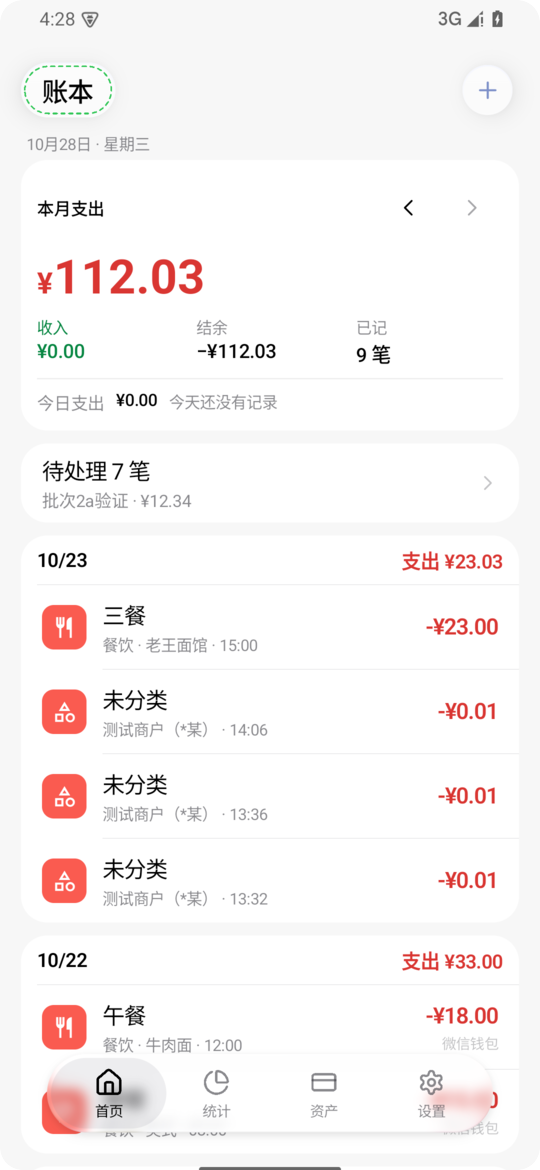
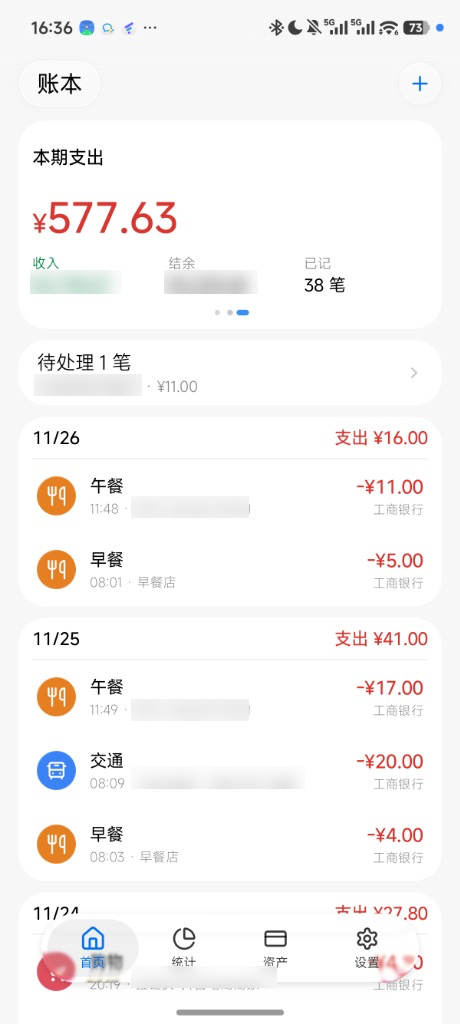
docs(readme): 重写 README 并更新脱敏版 1.11.4 界面截图

diff --git a/README.md b/README.md
@@ -1,48 +1,138 @@
+<div align="center">
+
+<img src="logo/wheat.png" width="96" alt="麦米 My Money" />
+
 # 麦米 My Money
 
-> 当前已发布版本 **1.11.4/167**（2026-11-26 用户验收通过，已发 [GitHub Release `v1.11.4`](https://github.com/Caozl9021/MyMoney/releases/tag/v1.11.4)）：包含全应用交互动效升级、3D 预测性返回全向退场、统计页周↔月柱环 1 对 1 变形 / 圆环双模式与汇总滚变、以及首页汇总卡自适应三点分页引导。说明见 [UI 组件说明](docs/UI_COMPONENTS.md) 与 [更新日志](CHANGELOG.md)，验收见 [验收记录](docs/ACCEPTANCE.md)。
->
-> 更早版本 **1.11.3/166**（2026-11-24 已发 [GitHub Release `v1.11.3`](https://github.com/Caozl9021/MyMoney/releases/tag/v1.11.3)）、**1.11.2/165**（2026-11-24 已发 [GitHub Release `v1.11.2`](https://github.com/Caozl9021/MyMoney/releases/tag/v1.11.2)）、**1.11.1/164**（2026-11-20 已发 [GitHub Release `v1.11.1`](https://github.com/Caozl9021/MyMoney/releases/tag/v1.11.1)）、**1.10.3/162**（2026-11-14 已发 [GitHub Release `v1.10.3`](https://github.com/Caozl9021/MyMoney/releases/tag/v1.10.3)）。
+**半自动识别微信与支付宝交易 · 纯本地存储与离线处理**
 
-## 版本说明（1.10.3/162 及近期基线）
+[![Release](https://img.shields.io/github/v/release/Caozl9021/MyMoney?label=Release)](https://github.com/Caozl9021/MyMoney/releases)
+![Android](https://img.shields.io/badge/Android-8.0%2B%20(API%2026%2B)-3DDC84)
+[![License: GPL v3](https://img.shields.io/badge/License-GPLv3-blue.svg)](LICENSE)
 
-当前版本 **1.10.3/162**（2026-11-14 验收并发布，Room 13 / JSON 12），含 11-11 首页/账单详情/统计/明细页样式重构、11-12 资产 Tab 布局精简，以及 11-11 随 `1.10.2/161` 发布的资产添加向导与报销能力（其中报销未另出单独验收原话）。云备份管理台、扫码连接及邀请管理、历史备份删除与按需下载恢复已于 1.10.0/158（2026-11-07）验收通过。
+[下载安装包](https://github.com/Caozl9021/MyMoney/releases) · [更新日志](CHANGELOG.md) · [安全与隐私边界](SECURITY.md) · [参与贡献](CONTRIBUTING.md)
 
-设置中的云备份可连接家庭服务、创建本机快照、浏览历史并按需恢复。恢复支持进度、取消与缓存复用。管理台提供设备／备份管理及连接二维码。
+</div>
 
-淘宝闪购订单数据采样已整理交接，实时验证与产品接入继续后续执行。[验收记录](docs/ACCEPTANCE.md) · [当前进度](docs/PROGRESS.md) · [淘宝实时交接](docs/SHANGOU_LIVE_VALIDATION_HANDOFF.md)
+---
 
-## 两种基础识别方式
+> 最新正式版：**`1.11.4 / 167`**（[Release `v1.11.4`](https://github.com/Caozl9021/MyMoney/releases/tag/v1.11.4)）  
+> 从旧版升级请使用**同签名 Release APK** 直接覆盖安装，本机账单与设置会自动保留。
 
-| 方式 | 怎么用 |
-| --- | --- |
-| 通知监听 | 收到支持的微信/支付宝交易通知后识别，不依赖无障碍 |
-| 页面识别 | 开启后打开交易详情即可自动识别；付款成功页由通知监听负责，不从页面生成草稿 |
-| 页面文字补全 | 可选OCR，默认关闭并需同意；为可靠的详情节点草稿补商户、支付方式或商品等空字段 |
+---
 
-两种方式独立开关/授权/状态，位于设置→自动记账→识别方式与增强。总开关统一暂停，关闭自动弹卡时结果进入待确认。没有合格通知时，付款成功页允许不弹；页面识别并非手动按钮，也不承诺所有付款都有通知。
+## 界面预览
 
-Root读通知是通知的内部备用实现，listener优先；LSPosed交易凭证为高级可选增强。两者不恢复旧Root页面轮询，不改变仅微信/支付宝的应用范围。
+<p align="center">
+  <img src="assets/screenshots/hero.png" width="100%" alt="麦米 My Money 界面概览：确认卡、账本首页、周/月统计、资产管理" />
+</p>
 
-识别一律先形成待确认，只有你点“记一笔”才入账。同笔两路共用去重和确认卡，已记账/忽略及人工字段受保护。再次打开已记账/忽略/曾呈现的同笔详情仍可弹卡；只有账本命中疑似对应账单时，在金额下方仅显示“（可能重复）”，保存或忽略由你决定；同一识别重复保存仍幂等。
+<details>
+<summary>查看单页高清截图</summary>
 
-## 账本和迁移
+| 确认卡 | 账本首页 | 统计（周） | 统计（月） | 资产 |
+| :---: | :---: | :---: | :---: | :---: |
+| <img src="assets/screenshots/02-confirm.png" width="170" alt="确认卡" /> | <img src="assets/screenshots/01-home.png" width="170" alt="账本首页" /> | <img src="assets/screenshots/03-stats-week.png" width="170" alt="周统计" /> | <img src="assets/screenshots/04-stats-month.png" width="170" alt="月统计" /> | <img src="assets/screenshots/05-assets.png" width="170" alt="资产" /> |
 
-- 首页按账期汇总，分类/账户统计可下钻到统一账单详情；资产与转账按原子事务联动。
-- 删除先确认，记录历史保存只读删除日志，不提供恢复或5秒撤销。
-- 钱迹XLSX导入、设置内iCost批量导出、本地JSON备份和个人云备份。当前主UI不再提供家庭共享规则/逐条账本同步/互导；单笔iCost分享已移除。
-- 首页加号直接手动记账。主动“从截图补记”已取消，源码入口/Activity仍有残留待清退；PAGE内部OCR辅助保留，公共确认卡不提供用截图补充。
-- Room13，JSON12兼容1–11；原始截图、设备身份和凭证不进备份。历史rule-sync.db与ledger-sync.db保留，但不等于当前仍有同步主入口。
+</details>
 
-## 规则与OCR边界
+---
 
-规则包源码当前1.3.0、15条规则、生成标记maimi-rules-5；App和规则包独立版本/发布。官方包升级保留个人规则与状态。规则只处理宿主已经准入的输入，不能绕过详情场景或通知门禁。见[规则说明](docs/LOCAL_RULES.md)。
+## 半自动记账
 
-固定离线OCR引擎为V6 Tiny，需API30+与64位进程；主App仍支持minSdk26。Q1字段补充已实现，Q0真实样本/ARM64预算仍有缺口，Q2缺金额时生成第一份草稿未实现。整页空节点盲截不在范围。见[OCR说明](docs/OCR_ASSISTANCE.md)。
+支付完成后本地自动提取金额、商户与支付方式并弹出确认卡，自动匹配分类、账户、餐段与备注；**只有你点「记一笔」才会入账**。
 
-## 构建
+```text
+微信 / 支付宝交易
+   ├── 通知监听（主力，不依赖无障碍）
+   ├── 页面识别（打开交易详情页自动提取）
+   └── 可选增强（本地 V6 OCR 补空字段 / Root 读通知 / LSPosed 交易凭证）
+          │
+          ▼
+本地规则匹配 + 智能填充 + 重复检查
+          │
+          ▼
+弹出确认卡（关闭自动弹卡时暂存「待确认」）──► 点「记一笔」入账并联动资产余额
+```
 
-JDK17、Android SDK35，Gradle wrapper8.14、AGP8.7、Kotlin2.0.21。
+可在 **设置 → 自动记账** 中独立开关识别能力：
+
+| 方式 | 触发时机与说明 | 权限 / 条件 | 默认状态 |
+| :--- | :--- | :--- | :--- |
+| **通知监听** | 收到支持的微信 / 支付宝交易通知即识别 | 通知使用权 | 推荐日常开启 |
+| **页面识别** | 打开交易详情页自动采集（付款成功页仍由通知负责） | 无障碍服务 | 按需开启 |
+| **页面文字补全** | 详情节点缺商户、支付方式或商品名时用离线 OCR 补全 | Android 11+ (64位) | **默认关闭**，需主动同意 |
+| **高级增强** | Root 读通知备用 / LSPosed 交易凭证增强 | Root / LSPosed | 可选，见 [LSP 上手](docs/LSP_QUICKSTART.md) |
+
+- **去重与防误覆**：两路共用去重与确认卡；重复打开已记账或已忽略的同一笔交易时，若账本存在疑似记录，仅在金额下方提示 **`（可能重复）`**，是否保留由你决定。你在确认卡中手改的字段不会被后续识别覆盖。
+- **本地越用越顺手**：内置 Rhino 本地规则引擎，支持按时间段自动填充餐饮餐段、备注快捷建议与本地分类学习。详见 [本地规则说明](docs/LOCAL_RULES.md) · [OCR 说明](docs/OCR_ASSISTANCE.md)。
+
+---
+
+## 纯本地数据与隐私边界
+
+- **100% 本地识别与学习**：不使用云端识图或第三方 AI；离线 OCR 原图仅在内存短期处理，不落盘、不进备份。
+- **不触碰第三方私有数据**：不扫描微信 / 支付宝私有数据库，不拦截支付流程。
+- **关闭系统云备份**：`allowBackup` 默认关闭，防止账本被手机厂商云盘静默上传。
+- **`INTERNET` 权限仅用于两项可控操作**：
+  1. 你主动点击检查 GitHub Release 更新（不上传账单或支付内容）；
+  2. **可选的**自建个人云备份与 Web 看板（仅发往你自己部署的服务器；不配置则全程纯单机运行）。
+- **自由导入导出**：支持 **本地 JSON 全量备份/恢复**、**钱迹 XLSX 导入** 与 **批量导出到 iCost**。
+
+更多安全约束见 [安全策略](SECURITY.md)。
+
+---
+
+## 核心功能
+
+- **桌面即记 & 小组件**：极速记账（点击直达半透明速记弹窗）、7 日支出柱状图、资产 & 报销看板、`2×1` 月支出卡片。
+- **账本与统计**：自定义账期起始日与首页三点滑动切期；支持 **周 ↔ 月** 平滑切换、收支/退款占比圆环与分类/账户下钻明细。
+- **资产与报销**：账户余额随记账/转账事务联动；支持标记可报销账单并统一跟踪待报销；删除账单保留只读删除日志。
+- **细节体验**：麦穗品牌与 4 套主题色；Android 13+ 支持液态玻璃折射与分区域通透度调节（可一键关闭）。
+
+---
+
+## 可选：自建个人云备份与 Web 看板
+
+如果你想把本机快照、实时增量同步与浏览器财务看板部署到自己的设备（NAS / 家用服务器 / VPS）上，仓库内自带了前端 [`web`](web) 与单二进制服务端 [`server-rs`](server-rs)（支持通过局域网或 Tailscale 等内网方式访问，管理台与连接码机制详见 [连接码速查](docs/CONNECT_CODE_QUICKSTART.md)）：
+
+**前置准备**：PostgreSQL 数据库 + Rust 工具链 + Node.js（用于先打包前端静态资源嵌入服务端）。
+
+1. **构建前端并编译服务端单二进制**：
+   ```bash
+   cd web && npm ci && npm run build
+   cd ../server-rs && cargo build --release --locked
+   # 产物位于 server-rs/target/release/mymoney-home
+   ```
+2. **准备配置文件与数据库**：
+   复制 [`.env.example`](deploy/home-sync/.env.example) 为 `.env`，填写 PostgreSQL 连接串（`MYMONEY_DATABASE_URL`）、备份目录（`MYMONEY_BACKUP_DIR`）、管理密码（`MYMONEY_ADMIN_TOKEN`）以及手机可访问的 `MYMONEY_SERVER_URL`。
+3. **初始化表结构并启动服务**：
+   ```bash
+   ./target/release/mymoney-home migrate --env-file /path/to/.env
+   ./target/release/mymoney-home serve --env-file /path/to/.env
+   ```
+4. **手机配对**：
+   浏览器打开 `http://<你的服务地址>/admin/cloud-backup`，用 `MYMONEY_ADMIN_TOKEN` 解锁后生成 `MMJOIN2` 连接码（或二维码），在 App 的 **设置 → 迁移与备份 → 云备份** 中扫码或粘贴连接即可。
+
+> 若仅需单机备份，直接在 **设置 → 迁移与备份 → 本地备份文件** 中导出/导入 JSON 即可，无需部署服务端。
+
+---
+
+## 快速安装与构建
+
+- **直接使用**：到 [GitHub Releases](https://github.com/Caozl9021/MyMoney/releases) 下载 `arm64-v8a` 正式签名包（要求 Android 8.0 / API 26+）。安装后开启 **通知监听**（并按需开启 **页面识别**）即可使用。
+
+<details>
+<summary>开发者：模块结构与本地构建命令</summary>
+
+| 模块 | 作用 |
+| :--- | :--- |
+| [`:app`](app) | Compose 主应用、采集调度、确认卡、账本/资产/统计、桌面小组件、内置 LSPosed |
+| [`:billkit`](billkit) | 纯 Kotlin 解析层：通知/页面解析、Rhino 本地规则引擎、分类/餐段策略 |
+| [`:ocr-v6`](ocr-research/v6) | 固定离线原生 OCR 引擎（V6 Tiny） |
+| [`server-rs`](server-rs) / [`web`](web) | 可选自建个人云备份服务端（Rust）与 Web 管理看板 |
+
+环境：JDK 17 · Android SDK 35 · Gradle 8.14 · Kotlin 2.0.21
 
 ```bash
 ./gradlew :app:testDebugUnitTest :billkit:testDebugUnitTest
@@ -50,171 +140,29 @@ JDK17、Android SDK35，Gradle wrapper8.14、AGP8.7、Kotlin2.0.21。
 ./build-all.sh
 ```
 
-本机SDK在local.properties配置，release签名从仓库外读取；未签名包不作为正式交付。debug与release不同签名，覆盖升级使用同签名APK，不卸载规避。产物进入dist/app/<version>-<code>/<run-id>；规则另放dist/rules，发布快照和候选分开，详见[部署](DEPLOYMENT.md)与[打包](docs/PACKAGING.md)。
+详见 [架构说明](ARCHITECTURE.md) · [测试环境](docs/TEST_ENVIRONMENT.md) · [打包说明](docs/PACKAGING.md)。
 
-| 模块 | 作用 |
-| --- | --- |
-| :app | Compose宿主、采集协调、确认/账本/备份、内置LSP |
-| :billkit | 原生页面/通知解析、交易规则与纯策略 |
-| :ocr-v6 | 固定离线原生引擎 |
-| :ocr-fixture | 可选隔离测试页面，不进生产包 |
+</details>
 
-[架构](ARCHITECTURE.md) · [贡献约定](CONTRIBUTING.md) · [测试环境](docs/TEST_ENVIRONMENT.md)
+---
 
-## 数据与验证
+## 许可与致谢
 
-识别和学习在本机执行。App声明INTERNET，用于主动GitHub更新和用户配置的个人云备份；不会向GitHub上传支付内容。个人快照只发送到所配置的自有服务，原图不上传；不扫描第三方私有数据库或自动点击支付。详见[安全边界](SECURITY.md)。
-
-154已有1175 JVM、三构建与strict35/35工程结果；小米14已按用户要求安装153后安装154，均Success，未代操作或验收。153 Mi10完整备份恢复证据不算154返回实测；用户已确认154返回修复通过与“更多”显示正常，云备份整体未验收。支付宝延时弹卡已按用户确认关闭，权限状态/旧预测返回残影等未决仍见[剩余计划](docs/PLAN_1.0.md)。
+本项目采用 [GPL-3.0](LICENSE) 开源（完整声明见 [NOTICE](NOTICE)），产品思路受 [AutoAccounting](https://github.com/AutoAccountingOrg/AutoAccounting) 启发。
 
 <details>
-<summary><b>第三方组件与许可</b>（点开）</summary>
-
-本项目以 [GPL-3.0](LICENSE) 发布。完整声明见 [NOTICE](NOTICE)。
+<summary>第三方组件与商标声明</summary>
 
 | 组件 | 许可 | 用途 |
-| --- | --- | --- |
-| [Mozilla Rhino](https://github.com/mozilla/rhino) | MPL-2.0 | 在设备上执行本地识别规则，无原生 `.so` |
-| [AndroidLiquidGlassView](https://github.com/QmDeve/AndroidLiquidGlassView) | MIT | 顶栏与底栏的液体玻璃折射效果；本地 AAR 的来源与改动见 [说明](app/libs/LIQUIDGLASS-SOURCE.md) |
-| [Lucide](https://github.com/lucide-icons/lucide) | ISC | 底部 dock 的动态图标路径，已适配 Compose |
-| AndroidX / Jetpack Compose / Material 3 | Apache-2.0 | UI 工具链、生命周期、Room |
-| Material Symbols | Apache-2.0 | 应用内的分类图标 |
+| :--- | :--- | :--- |
+| [Mozilla Rhino](https://github.com/mozilla/rhino) | MPL-2.0 | 本地执行识别规则 |
+| [AndroidLiquidGlassView](https://github.com/QmDeve/AndroidLiquidGlassView) | MIT | 液体玻璃折射（见 [LIQUIDGLASS-SOURCE.md](app/libs/LIQUIDGLASS-SOURCE.md)） |
+| [Lucide](https://github.com/lucide-icons/lucide) | ISC | 底部导航栏动态图标 |
+| AndroidX / Jetpack Compose / Material 3 / Room | Apache-2.0 | UI 与本地数据库 |
+| Material Symbols | Apache-2.0 | 分类与功能图标 |
 
-**商标**：微信、支付宝分别是腾讯控股有限公司与蚂蚁集团股份有限公司的商标；iCost（钱迹）为其各自所有者的商标。本项目是独立的非官方工具，与上述公司无关联、未获其背书或赞助。
-
-</details>
-
----
-
-## 致谢
-
-本项目的产品思路受 [AutoAccounting](https://github.com/AutoAccountingOrg/AutoAccounting) 启发：它证明了「支付后自动记账」可以做成真正能日常使用的工具，本项目在形态与交互上从中受益。
-
----
-
-## 参与贡献
-
-欢迎 Issue 与 PR。提交前请先读 [CONTRIBUTING.md](CONTRIBUTING.md)——里面写了代码约定、如何新增一条识别规则，以及**报告问题前如何脱敏诊断样本**。
-
-发现安全问题请走 [SECURITY.md](SECURITY.md) 里的私密渠道，不要开公开 Issue。
-
----
-
-<div align="center"><sub>识别在本机执行 · 备份由你选择保存到自己的服务器 · Made with ♥ for 只想记好账的人</sub></div>
-
-打包产物按版本、构建号和独立运行目录存放，位置见 `dist/latest-app.json`；详细规则见 [打包文件存放规则](docs/PACKAGING.md)。
-
-<details>
-<summary>旧版当前状态前言（历史，现状以上文为准）</summary>
-
-## 1.9.0/154 云备份返回修复候选（2026-11-06，待用户验证）
-
-历史备份/连接管理改走统一设置导航栈，去掉云备份内部独立保存的子页状态，修复系统返回跳过主页、重进恢复旧子页的问题。JVM1175与三构建通过，strict35/35；154仅构建收集，**未安装或操作手机**，未改服务/备份数据。当前latest=154 pending_acceptance；153的备份/恢复实测只按153范围保留，不当作154返回实测。
-
-证据：[154导航修复核查](runs/20261106-063858-cloud-backup-navigation/outputs/verification.md)。
-
-## 1.9.0/153 个人云备份（2026-11-06，已实现，待用户验收）
-
-- 设置→迁移与备份只保留“云备份”：立即备份、本设备历史、预览/二次确认恢复；本地文件与连接管理放到更多。
-- 设备安装UUID+凭证复用，登记幂等；重装经授权接替原来源、保留历史并使旧凭证失效。服务端强制只访问本设备备份；五分钟一次性业务连接码，管理页一键生成、手机显式粘贴。
-- 用户明确授权清表重来，已保存可恢复数据库快照后重置家庭服务专用表；旧21来源清空，Mi10新登记后1条，2份完整快照各58笔。手机账单、其他schema、文件卷与网络节点未清，未复制密钥到服务配置。
-- Mi10已安装最终153 Release，保数据、备份→预览→实际恢复→再备份及冷启复用通过；58笔业务内容/sid与账户快照前后一致。JVM1175、服务端pytest65、身份仪器4+内存恢复8、strict35/35。
-- Xiaomi14尚未安装153/重连并创建新备份；真实双机/重装接替和复杂资产转账真机验证仍开放。自动备份、扫码、有新改动指示及不可达旧服务器主动解绑未实现。
-- 家庭服务已部署；APK仍pending_acceptance，未提交/推送/发布。148已有用户验收保留，153不因工程验证自动验收。
-
-证据：[153交付核查](runs/20261106-055644-personal-cloud-backup-implementation/outputs/verification.md)。当前方案见[个人云备份](docs/PERSONAL_CLOUD_BACKUP_PLAN.md)。
-
-以下为历史状态，当前执行范围以上文X阶段为准，W剩余任务不再整体作为当前需求必做。
-
-## 1.9.0/152 工作区（2026-11-06，家庭数据 W1–W5，待用户验收）
-
-- 「家庭数据」落地：每台设备一个独立账本，只同步到家庭服务里的**本机副本**；一条 `MMJOIN2` 连接码完成地址/网络授权/业务配对；需要家人数据时主动「从其他设备导入」；共享规则独立同步；历史备份沿用快照恢复。
-- 数据面：Room10→11（`syncId/updatedAt/deletedAt`）、JSON9→10（账单带 `sid`）、独立 `ledger-sync.db` outbox；服务端新增 `/v1/ledger/{snapshot,push,pull,ack}` 与 `/v1/ledger/import/{sources,source}`，`ledger_items/ledger_changes/ledger_operations/ledger_device_cursors/ledger_import_snapshots` 五表。
-- 真机定位并修掉 4 个真 bug：立即同步接错协调器、`BillWriter` ThreadLocal 跨线程丢 outbox、`bindSpace` 首绑清空首笔账单、同步详情页配置快照不刷新。
-- 修复体验问题：首次合并从"点 41 次同步"改为单次触发循环推送（每批50条、最多200轮）（`PUSH_BATCH=50`/`MAX_PUSH_ROUNDS=200`）。
-- 候选 1.9.0/152：JVM 1169 全绿、服务端 pytest 49、strict valid，真机 Mi10 保数据与同步链路通过；双真机 A/B 链路、账户/流水条目同步、导入日期范围仍开放。
-- 旧版覆盖升级残留的假已同步、断开崩按用户决定转为 Release Notes「升级须知」；详情页旧配置导致的未连接误报已在152针对修复，未补测所有升级路径。未提交/推送/发布。
-
-本次仅复核文档；上述测试与真机结果引用既有run，未重跑。148既有用户验收保留，149–152未验收。复核记录见[文档核查](runs/20261106-043950-docs-progress-sync/outputs/verification.md)。
-
-## 用户验收结论（2026-11-06，优先于下方历史状态）
-
-- **通过**：144再次确认；142重复提示精简、143标签间距；132统计下钻/记录历史/账单操作。
-- **141分项**：交易详情自动识别通过；通知监听未继续深入优化，暂不通过。不得再把141整组写成待验收或整组通过。
-- **138/139范围收敛后通过**：主动“从截图补记”功能取消，仅保留页面识别内部OCR辅助补字段；不新增并列采集通道。当前源码仍有SettingsScreen入口及OcrImportActivity声明，属于取消范围的残留，尚未清退；本次只同步文档，未改代码。
-- **超级岛**：实验性功能，相关项目用户全部暂时验收通过；原“不出岛只出原卡”由用户确认是未授予通知权限，授权后正常，不再列为待定位/待用户验收。工程打包/装机摘要、源码提交与测试证据整理不因用户验收自动完成。
-- **支付宝延时弹卡**：用户确认已修复，从历史遗留问题移除；本轮未定位修复提交或新增测试，不编造根因/验证数据。
-
-未确认关闭的历史项：权限状态偶发过期、预测返回残影、整App流畅度全面结论；家庭同步failed按用户要求继续暂缓。OCR研究语料/预算、其他ROM/API/可访问性属于工程覆盖缺口，不重复要求用户验收已通过的功能。当前源码/本地Release输出146，候选指针仍145；不据此声明已发布。证据：`runs/20261106-110618-user-acceptance-sync/outputs/verification.md`。
-
-<div align="center">
-<img src="assets/brand/icon.png" width="120" alt="麦米 My Money" />
+微信、支付宝分别是腾讯与蚂蚁集团的商标；钱迹、iCost 为其各自所有者的商标。本项目为独立开源工具，与上述公司无关联。
 
 </details>
 
-<details>
-<summary>同步前README首屏文本（历史）</summary>
-
-```markdown
-# 麦米 My Money
-
-本地识别微信、支付宝交易，核对后由你确认记账。
-
-**1.9.0 / 152 候选 · 待用户验收**
-
-本版新增「家庭数据」：每台设备一个独立账本，只同步到自建家庭服务的本机副本；一条 `MMJOIN2` 连接码完成配对；需要家人数据时主动「从其他设备导入」。
-
-> 从旧版**覆盖升级**请先导出本机数据 → 卸载 → 装新版 → 导入，直接覆盖不保证家庭同步状态正确（见 Release Notes「升级须知」）。
-
-超级岛为实验功能（源码146，尚未完成候选交付）：已实现纯展示、点击进确认页；**用户真机开启后不出岛、只出原确认卡，验收未通过，待定位**。
-
-[下载发布附件](https://github.com/Caozl9021/MyMoney/releases) · [文档](docs/README.md) · [当前范围](docs/PROJECT_SCOPE.md) · [待验收清单](docs/ACCEPTANCE.md)
-</div>
-
-![界面示例](assets/screenshots/hero.png)
-
-图片为历史测试账本界面示例，不作为143布局或真实支付覆盖的证明。当前包从[候选导航](dist/latest-app.json)定位，本地候选不表示已发布到GitHub。
-```
-
-</details>
-
-<details>
-<summary>158验收前的README交付状态</summary>
-
-## 155进度复核（2026-11-06，仅文档）
-
-当前候选 **1.9.0/155，Room11/JSON10，pending_acceptance**。删除历史、更多下移右对齐、context请求精简和Go HTTP复用主体已实现；155尚无用户验收。154返回修复/原“更多正常显示”分项通过保留。
-
-本轮复核候选SHA五项通过，现存JVM XML为1180/0/0/0；服务端76 pytest、部署镜像155和Mi10显式直连实测引用原记录，未重跑/操作在线环境。已有实机证据是单选删除，批删能力不等于真实多选已测；内嵌通道和分段耗时未闭环，HTTP请求减少不等于连接慢已解决。
-
-静态待收尾：R1删除重试未保留operationId；R2删后分页仍用旧offset；R3文件已不在时回收状态不能收尾；R4新备份未失效context缓存。详见[实现复核与后续](runs/20261106-181513-155-progress-review/outputs/implementation-review.md)。本轮只同步文档，不改源码/APK/旧证据，不操作手机或服务。
-
-> 最新用户结论（2026-11-06）：“返回修复验收通过，更多按钮正常显示”。154返回专项与菜单显示已确认；不扩为个人云备份整体、本地JSON实际导入/导出或双机验收，不编造逐步骤日志。候选元数据仍为pending_acceptance。
-
-
-本地识别微信、支付宝交易，核对后确认记账；按需把自己的完整账本备份到自己的服务器。
-
-**1.9.0 / 154候选 · 已安装小米14 · 返回专项通过 / 云备份整体待验收**
-
-当前是个人云备份：每台设备只访问自己的历史快照，提供手动备份和显式恢复。历史/连接管理已改统一导航栈；旧家庭共享规则、逐条账本同步和设备互导退出主UI。用户已明确验收154返回修复并确认“更多”正常显示；不扩大为云备份整体验收。
-
-同签名覆盖安装保留本机数据；既有服务清表是用户一次明确授权，并有清前快照，不是常规升级要求。无须为本轮文档更新卸载、清表或重新操作设备。
-
-[当前154本地候选](dist/app/1.9.0-154/20261106-064211-hkmfj9cp/MyMoney-1.9.0-154-release.apk) · [文档](docs/README.md) · [范围](docs/PROJECT_SCOPE.md) · [验收与反馈](docs/ACCEPTANCE.md)
-
-![界面示例](assets/screenshots/hero.png)
-
-图片为历史测试账本示例，不证明154布局或真实支付覆盖。源码/本地候选不表示已发布GitHub。超级岛按用户确认相关实验项目暂时通过，通知权限原因已澄清；工程缺口独立保留。
-
-## 当前交付
-
-当前源码和唯一候选为 **1.9.0/154，Room11/JSON10，pending_acceptance**。家庭服务已部署个人云备份协议，镜像仍为 `mymoney-home-sync:cloud-backup-153`；154只改App导航。工作区未提交/推送，APK未发布。
-
-小米14（`[设备序列号]`，`[型号]`）已按用户要求先后保数据安装153、154，两个 `adb install -r` 均返回 `Success`；安装后未打开App或做其他操作，没有逐字段保数据核对，不据此声明连接、备份或返回验证成功。Mi10本轮最近工程验证版本为153，不冒充已装154。
-
-[当前154安装包](dist/app/1.9.0-154/20261106-064211-hkmfj9cp/MyMoney-1.9.0-154-release.apk) · [进度](docs/PROGRESS.md) · [验收与反馈](docs/ACCEPTANCE.md) · [剩余工作](docs/PLAN_1.0.md)
-
-本地JSON入口目前收在云备份主页“更多→本地备份文件”，用户已明确确认“更多”正常显示，JSON实际导入/导出仍未确认；详细说明见[备份与恢复](docs/FAMILY_BACKUPS.md)。
-
-
-</details>
+<div align="center"><sub>识别在本机执行 · 数据完全属于你自己 · Made with ♥ for 只想安静记好账的人</sub></div>
